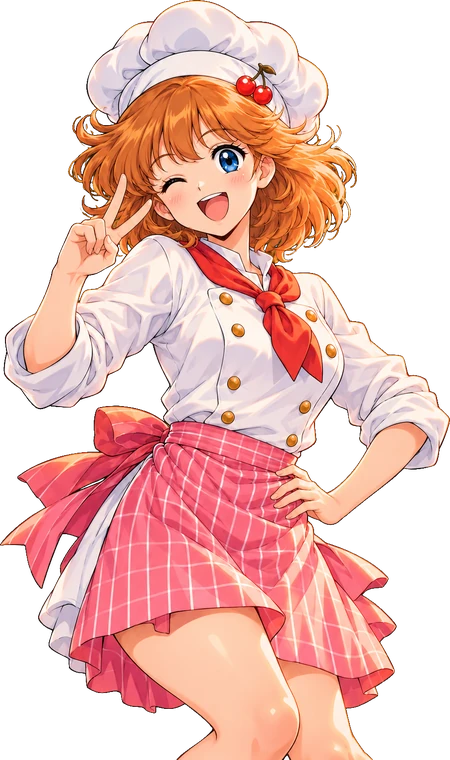
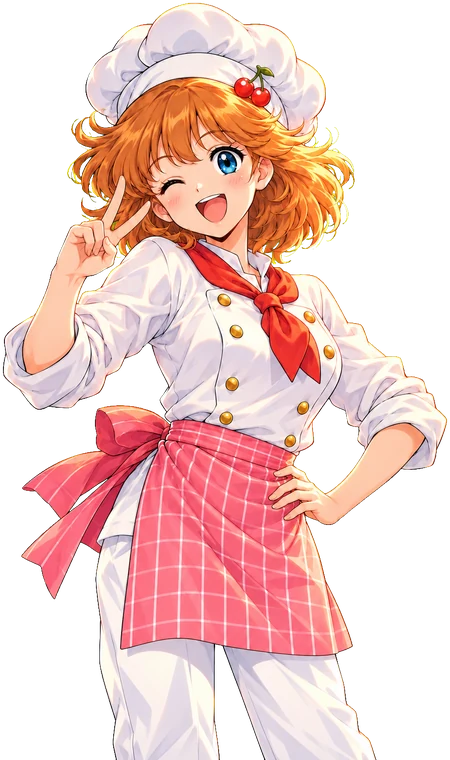
v0.99：自摸與大牌結算改用爆發立繪；蜜蜜胡牌立繪補白褲
Claude-Session: https://claude.ai/code/session_01WZLqZseQ84zHkrkNDgDySm

diff --git a/index.html b/index.html
@@ -21,7 +21,7 @@
 <details><summary>固定配牌練習</summary><p>以下是固定牌例，包含已進行到中途的牌桌；正式遊玩請選「開始新場」。</p><div class="prototype-scenes"><button type="button" data-scene="normal">中途牌桌練習</button><button type="button" data-scene="chi">多組吃牌練習</button><button type="button" data-scene="ready">聽牌選牌練習</button><a href="./layout-check.html" data-overlay>桌面草圖對照</a></div></details>
 <button id="resume-match" class="primary" type="button" hidden>返回暫停的整場</button><button id="fullscreen-toggle" type="button" hidden>全螢幕遊玩</button><details><summary>開始新場</summary><div class="new-game"><label>指定編號（選填） <input id="seed" type="number" min="0" max="4294967295" placeholder="留白隨機開局"></label><label>場次長度 <select id="rounds"><option value="4">四圈完整場</option><option value="1">一圈短場</option></select></label><button id="new" class="primary">開始新場</button></div><p>目前場次編號：<span id="current-seed"></span>。留白會重新隨機發牌；相同編號與相同角色順序可重播同一場。每場重新抽風位、擲骰定首莊，畫面以自家為下方。完成的場次會保留最近 20 場角色與分數；未完成的場次請先下載紀錄再重開。</p></details>
 <details><summary>練習牌例與規則</summary><p>練習牌例獨立進行，不計入整場；進行中的整場會暫停保留，可從選單「返回暫停的整場」。</p><div class="training"><button data-demo="ready">聽牌宣告</button><button data-demo="win">自摸／過水</button><button data-demo="kan">宣告後暗槓</button></div><p>一人＋三位電腦，依手牌進度、可改善牌張與公開風險選擇操作。底 100／台 50；對位花、連莊無上限。普通宣告加 1 台，可以過水；天聽、地聽有胡必胡。日本玩法留待後續版本。</p><p>人胡須放槍者首次出牌，且全桌尚未吃碰。抓位為本作開場流程，不影響每手按開門位置決定的門風。正式多人連線與角色故事尚未接入。</p></details>
-<details><summary>本局行動紀錄 <span id="log-count"></span></summary><ol id="log"></ol></details><p id="feedback" role="status"></p><footer>線上可玩預覽 v0.98 · 角色演出測試台</footer></dialog>
+<details><summary>本局行動紀錄 <span id="log-count"></span></summary><ol id="log"></ol></details><p id="feedback" role="status"></p><footer>線上可玩預覽 v0.99 · 角色演出測試台</footer></dialog>
 <dialog id="chow-dialog"><div class="dialog-head"><h2>選擇吃牌組合</h2><button id="chow-close">取消</button></div><p id="chow-source"></p><div id="chow-options"></div></dialog><dialog id="meld-dialog"><div class="dialog-head"><h2>已吃碰槓牌</h2><button id="meld-close">返回牌桌</button></div><div id="meld-summary"></div></dialog><dialog id="history-dialog"><div class="dialog-head"><h2>場次紀錄</h2><button id="history-close">返回牌桌</button></div><section id="match-summary"></section></dialog>
 <dialog id="river-dialog"><div class="dialog-head"><h2>四家棄牌</h2><button id="river-close">返回牌桌</button></div><p>淡色牌已被吃碰槓；排列順序由左到右。</p><div id="river-detail"></div></dialog><dialog id="sticker-dialog"><div class="dialog-head"><h2 id="sticker-title">角色貼圖</h2><button id="sticker-close">返回牌桌</button></div><button id="send-sticker" aria-label="秀出自己的角色"><img id="sticker-image" alt=""><span>角色亮相</span></button></dialog><script type="module" src="./app.mjs"></script></body></html>
 

diff --git a/game-layout.css b/game-layout.css
@@ -289,7 +289,7 @@ body.deal-hide-flowers #self-flowers{visibility:hidden}
 /* v0.97 · win settlement (app.mjs decorateWinSettlement) */
 #result.result-v2{left:0!important;top:0!important;width:854px!important;height:394px!important;max-height:none!important;transform:none!important;border:0!important;border-radius:0!important;background:rgba(18,11,7,.92)!important;backdrop-filter:blur(3px);box-shadow:none!important;overflow:hidden!important;display:block!important;padding:0!important}
 #result.result-v2 .rv2-band{position:absolute;left:0;top:0;bottom:0;width:330px;background:linear-gradient(100deg,color-mix(in srgb,var(--wc-color) 55%,transparent),transparent);clip-path:polygon(0 0,100% 0,72% 100%,0 100%);pointer-events:none}
-#result.result-v2 .rv2-portrait{position:absolute;left:-6px;bottom:0;height:372px;pointer-events:none;filter:drop-shadow(0 6px 14px rgba(0,0,0,.5))}
+#result.result-v2 .rv2-portrait{position:absolute;left:-6px;bottom:0;height:372px;pointer-events:none;filter:drop-shadow(0 6px 14px rgba(0,0,0,.5));max-width:322px;object-fit:contain;object-position:left bottom}
 #result.result-v2 .settlement-heading{position:absolute;left:318px;right:14px;top:8px;padding:0!important;display:flex;align-items:center;justify-content:space-between;border:0;background:none}
 #result.result-v2 .settlement-heading h2{font-size:21px;color:#ffe1a4}
 #result.result-v2 .settlement-heading .close-result{min-height:30px;padding:4px 12px;font-size:12px}
